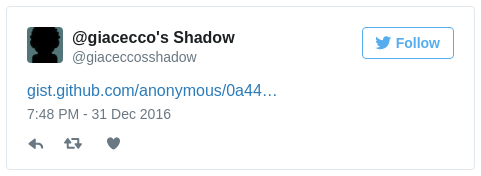
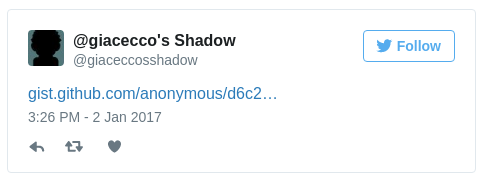
Better examples

diff --git a/README.md b/README.md
@@ -21,7 +21,15 @@ Alternatively, you may be disciplined enough to do the whole encryption and emai
 
 ## How does it work?
 
-You write your "update" in a simple text file, say ```message.txt```, and you publish it by doing ```./update message.txt```. In the background, the message is encrypted using [GnuPG](https://www.gnupg.org/) so that all of the readers you have previously configured can read it. The encrypted message is published pseudoanonymously on [Gist](https://gist.github.com/) (it's just *pseudo*anonymously because the people at GitHub will know it came from your IP address).
+You write your "update" in a simple text file, say ```message.txt```, and you publish it by doing ```./update message.txt```.
+
+```
+$ echo "I feel like eating pizza now!" > message.txt
+$ ./update message.txt
+$
+```
+
+In the background, the message is encrypted using [GnuPG](https://www.gnupg.org/) so that all of the readers you have previously configured can read it. The encrypted message is published pseudoanonymously on [Gist](https://gist.github.com/) (it's just *pseudo*anonymously because the people at GitHub will know it came from your IP address).
 
 ![example Gist](extras/doc/example-gist.png "Example Gist")
 
@@ -34,10 +42,12 @@ A link to the secret gist is posted to your "shadow" Twitter feed.
 Then, to read your shadow Twitter timeline, just use the ```timeline``` command:
 
 ```
-./timeline
+$ ./timeline
 ID,Posted at,Screen name,Text
+815942398660452352,2017-01-02 15:26:41 +0000,giaceccosshadow,I feel like eating pizza now!
 815497526019321856,2017-01-01 09:58:56 +0000,giaceccosshadow,"[CAN'T TOUCH THIS]"
 815283589197733889,2016-12-31 19:48:49 +0000,giaceccosshadow,"[CAN'T TOUCH THIS]"
+$
 ```
 
 The output is valid CSV text, and uses the same format as *t*. Note that the text is truncated to 140 characters, as in Twitter, and new lines are ignored. To read the full message, and see any new lines, do ```./read-status [status_id]```, where *status_id* is the tweet ID, that is the long number in the first column of the CSV.
